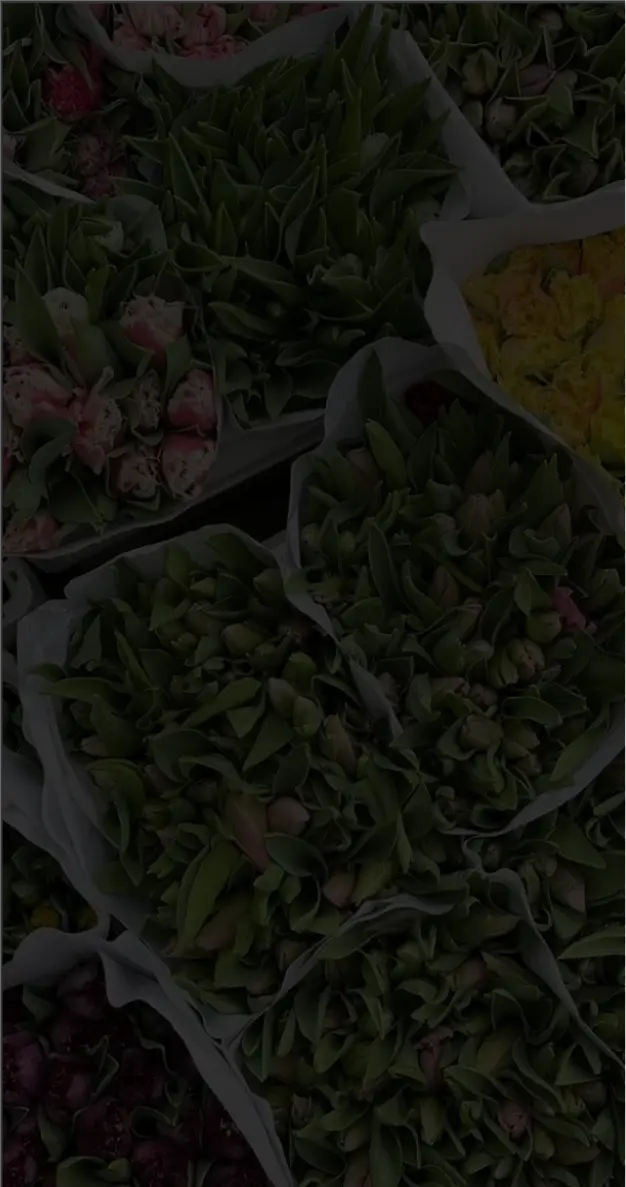
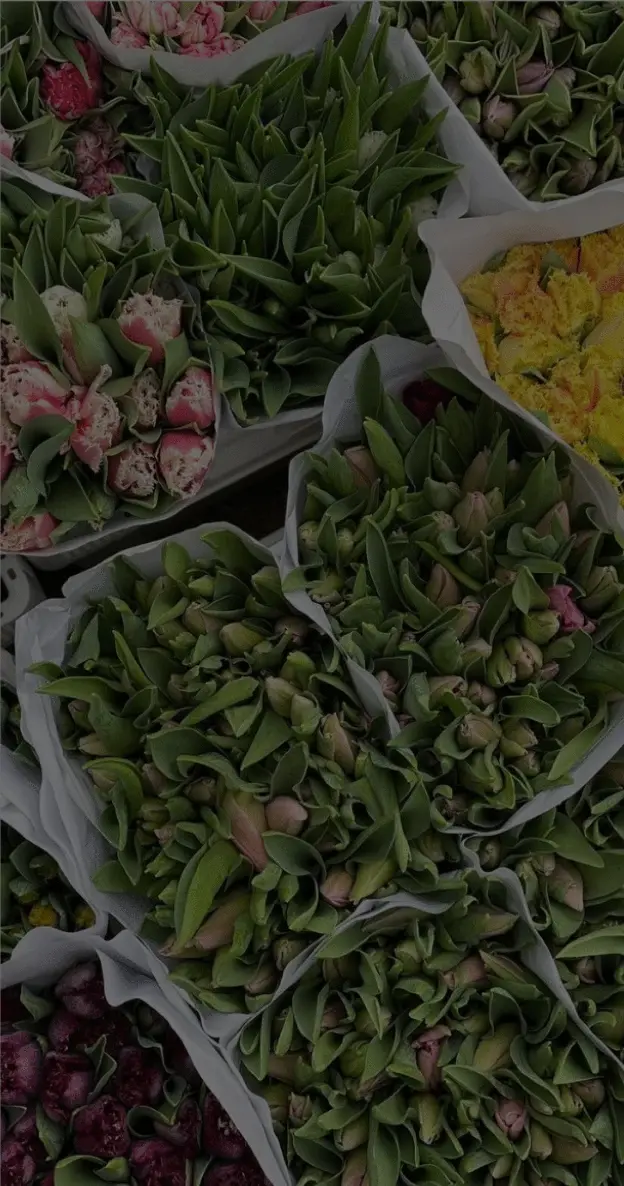
billede

diff --git a/src/index.html b/src/index.html
@@ -15,6 +15,8 @@
     <style>
       .baggrundsbillede {
         background-image: url(img/hero_billede.webp);
+        background-repeat: no-repeat;
+        background-size: cover;
       }
 
       button {
